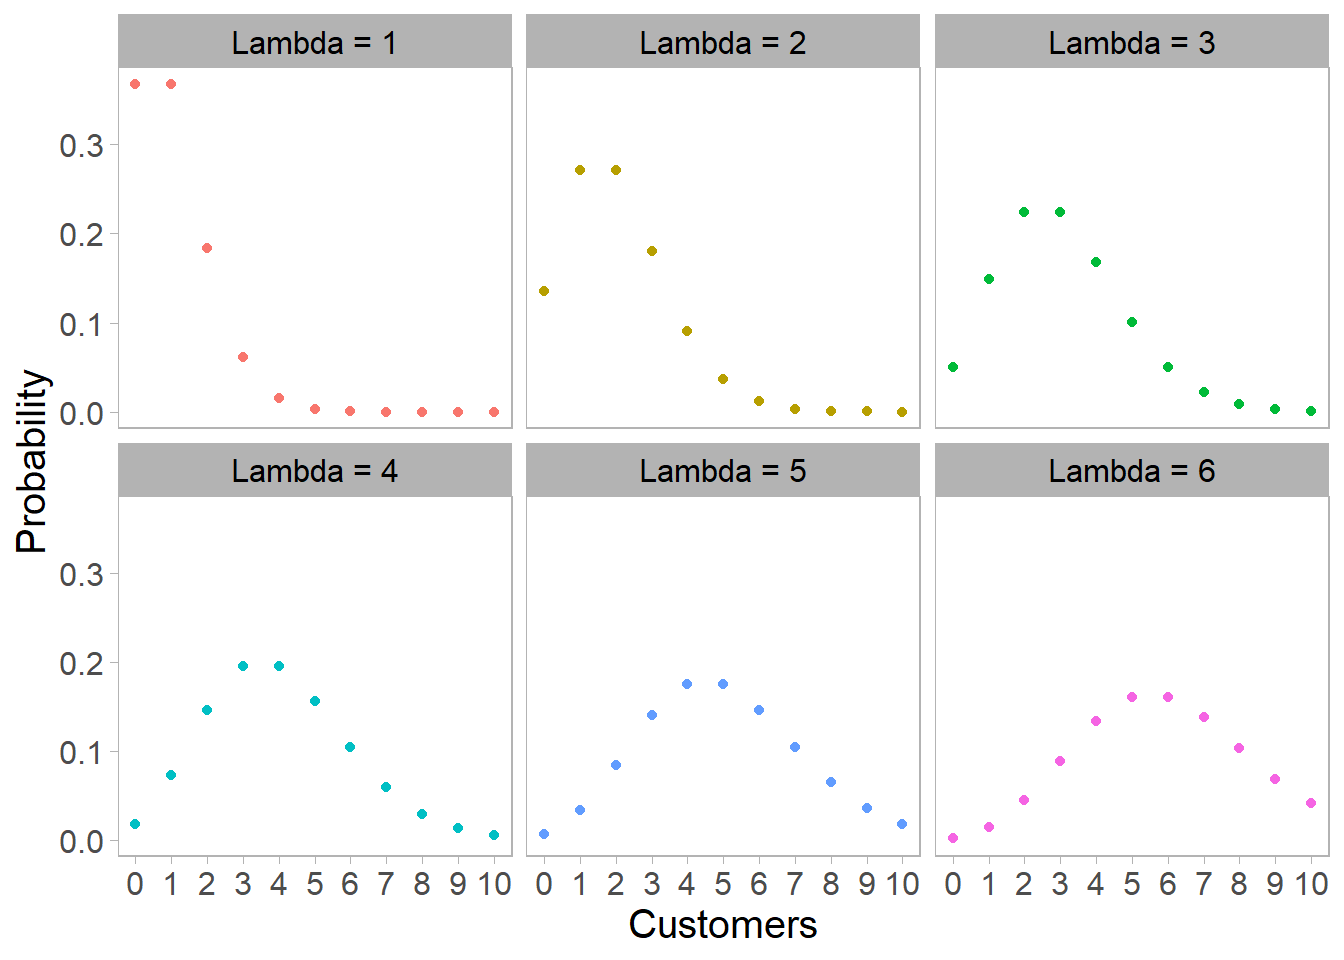
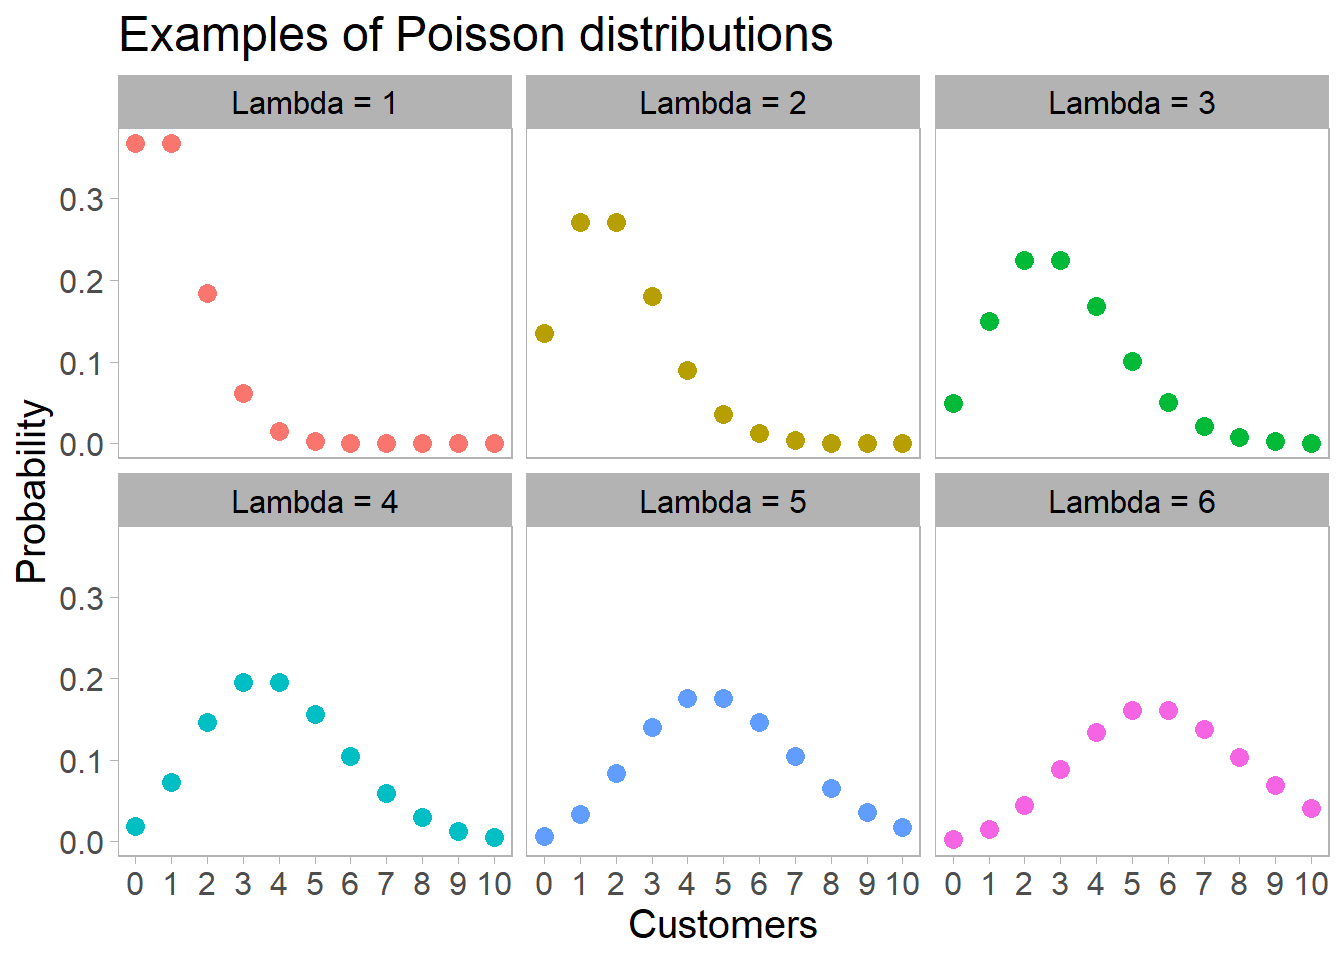
Final version

diff --git a/public/2020/08/25/first-post/index.html b/public/2020/08/25/first-post/index.html
@@ -6,8 +6,8 @@
 <meta name="generator" content="Hugo 0.74.3" />
 
 
-<title>Statistical models - A Hugo website</title>
-<meta property="og:title" content="Statistical models - A Hugo website">
+<title>Parametric statistical models - A Hugo website</title>
+<meta property="og:title" content="Parametric statistical models - A Hugo website">
 
 
   <link href='/knowledge-1052014_1920.jpg' rel='icon' type='image/x-icon'/>
@@ -19,11 +19,6 @@
 
 
 
-
-
-
-
-<link href='//cdnjs.cloudflare.com/ajax/libs/highlight.js/9.12.0/styles/github.min.css' rel='stylesheet' type='text/css' />
 
 
 
@@ -65,7 +60,7 @@
     <span class="article-duration">3 min read</span>
     
 
-    <h1 class="article-title">Statistical models</h1>
+    <h1 class="article-title">Parametric statistical models</h1>
 
     
     <span class="article-date">2020-08-25</span>
@@ -77,9 +72,8 @@
 
 <div id="statistical-models-what-are-they" class="section level2">
 <h2><em>Statistical models, what are they?</em></h2>
-<p><em>All models are wrong</em></p>
-<p>Statistical models are a way of approximating the results of a statistical experiment.<br />
-Let’s say that we want to analyse the hourly number of customers coming to a gas station from 9-5 in order to assess how many people are needed in the shop. To that extent we measure the number of customers that we observed in a day and the results looked like this:</p>
+<p>Statistical models are a way of approximating reality.<br />
+Let’s say that we want to analyse the hourly number of customers coming to a shop from 9-5 in order to assess how many people are needed to work. To that extent, we measure the number of customers that we observed in a day and the results looked like this:</p>
 <table>
 <thead>
 <tr class="header">
@@ -128,7 +122,7 @@ Let’s say that we want to analyse the hourly number of customers coming to a g
 3. <em>Which time intervals have the lowest traffic on average?</em></p>
 <p>Since we want to use probabilities, the first thing we need is a probability distribution that could be used in order to describe what we observe in reality. There are numerous probability distributions that we can choose from and none of them is the one that fully describes reality. But we still have to try to find one that seems reasonable given our data.</p>
 <p>What do we mean by reasonable?
-Well in our particular example of the gas station above, it would be good if our distribution fulfilled the following properties:<br />
+Well in our particular example of the shop above, it would be good if our distribution fulfilled the following properties:<br />
 - No negative values (Customers in an hour cannot be negative)<br />
 - Only integer values allowed (Customers in an hour have to be an integer number)<br />
 - Arrivals are independent of each other</p>
@@ -137,13 +131,18 @@ Well in our particular example of the gas station above, it would be good if our
 - Do certain days have more customers than others and therefore the hourly probability distribution for those days should be different?</p>
 <p>These are very reasonable questions to ask about our model of reality. And depending on the answer (which again depends on the data we observe) we have to adapt our probability distribution accordingly. This could be done for example by adding extra parameters or modeling some days separately.</p>
 <p>Coming back to our example, a reasonable distribution for customers in an hour is a <a href="https://en.wikipedia.org/wiki/Poisson_distribution">Poisson distribution</a>. How does a Poisson distribution look like?</p>
-<p><img src="/post/2020-08-25-first-post_files/figure-html/unnamed-chunk-2-1.png" width="672" /></p>
-<p><span class="math display">\[\displaystyle \{ \mathbb {P_\theta }\} _{\theta \in \Theta }\]</span></p>
-<pre class="r"><code>x = seq(1, 10 , 0.1)
-plot(x, sqrt(x))</code></pre>
-<p><img src="/post/2020-08-25-first-post_files/figure-html/unnamed-chunk-3-1.png" width="672" /></p>
-<p><strong>Does this work?</strong></p>
-<p><span class="math display">\[ y_i = mx_i + c\]</span></p>
+<p><img src="/post/2020-08-25-first-post_files/figure-html/unnamed-chunk-2-1.png" width="672" />
+As can be seen from the chart the Poisson distribution changes depending on the value of lambda that we select. For example, it is far more likely that we are going to have 0 or 1 customer in an hour if lambda equals 1 than if lambda equals 6.<br />
+Therefore, we can say that if our assumptions are correct, the good approximation for modeling the reality of customer arrivals is a Poisson distribution with a certain specific parameter lambda.</p>
+<p>Which brings us to the more formal definition of a statistical model:</p>
+<p>A statistical model is thought of as a pair <span class="math inline">\({\left(S, \{ P_\theta \} _{\theta \in \Theta }\right)}\)</span><br />
+The components of the pair are:</p>
+<ol style="list-style-type: decimal">
+<li><p><span class="math inline">\(S\)</span> is the sample space, as in a set that contains all possible observations we could make. In the shop example <span class="math inline">\(S\)</span> would be the set of all positive integers <a href="https://en.wikipedia.org/wiki/Natural_number#Notation"><span class="math inline">\(N^0\)</span></a></p></li>
+<li><p><span class="math inline">\({P}\)</span> is the family of all probability distributions on <span class="math inline">\(S\)</span>. In our example, these are all the Poisson distributions on the sample data.</p></li>
+<li><p><span class="math inline">\(\theta\)</span> is the parameter of our distribution. In our case this parameter is <strong>lambda</strong></p></li>
+<li><p><span class="math inline">\({\Theta}\)</span> is the parameter space. Basically where does our parameter(s) live? In the shop example, since we have a Poisson distribution lambda can only be positive and therefore <span class="math inline">\(\Theta = (0, +\infty)\)</span></p></li>
+</ol>
 </div>
 
     </div>
@@ -167,18 +166,6 @@ plot(x, sqrt(x))</code></pre>
 
     </div>
     
-
-
-
-<script src="//cdnjs.cloudflare.com/ajax/libs/highlight.js/9.12.0/highlight.min.js"></script>
-
-
-
-<script src="//cdnjs.cloudflare.com/ajax/libs/highlight.js/9.12.0/languages/r.min.js"></script>
-<script src="//cdnjs.cloudflare.com/ajax/libs/highlight.js/9.12.0/languages/yaml.min.js"></script>
-<script>hljs.configure({languages: []}); hljs.initHighlightingOnLoad();</script>
-
-
 
     
 <script src="/js/math-code.js"></script>

diff --git a/content/post/2020-08-25-first-post.html b/content/post/2020-08-25-first-post.html
@@ -1,5 +1,5 @@
 ---
-title: Statistical models
+title: Parametric statistical models
 author: George
 date: '2020-08-25'
 slug: first-post
@@ -16,9 +16,8 @@ output:
 
 <div id="statistical-models-what-are-they" class="section level2">
 <h2><em>Statistical models, what are they?</em></h2>
-<p><em>All models are wrong</em></p>
-<p>Statistical models are a way of approximating the results of a statistical experiment.<br />
-Let’s say that we want to analyse the hourly number of customers coming to a gas station from 9-5 in order to assess how many people are needed in the shop. To that extent we measure the number of customers that we observed in a day and the results looked like this:</p>
+<p>Statistical models are a way of approximating reality.<br />
+Let’s say that we want to analyse the hourly number of customers coming to a shop from 9-5 in order to assess how many people are needed to work. To that extent, we measure the number of customers that we observed in a day and the results looked like this:</p>
 <table>
 <thead>
 <tr class="header">
@@ -67,7 +66,7 @@ Let’s say that we want to analyse the hourly number of customers coming to a g
 3. <em>Which time intervals have the lowest traffic on average?</em></p>
 <p>Since we want to use probabilities, the first thing we need is a probability distribution that could be used in order to describe what we observe in reality. There are numerous probability distributions that we can choose from and none of them is the one that fully describes reality. But we still have to try to find one that seems reasonable given our data.</p>
 <p>What do we mean by reasonable?
-Well in our particular example of the gas station above, it would be good if our distribution fulfilled the following properties:<br />
+Well in our particular example of the shop above, it would be good if our distribution fulfilled the following properties:<br />
 - No negative values (Customers in an hour cannot be negative)<br />
 - Only integer values allowed (Customers in an hour have to be an integer number)<br />
 - Arrivals are independent of each other</p>
@@ -76,11 +75,16 @@ Well in our particular example of the gas station above, it would be good if our
 - Do certain days have more customers than others and therefore the hourly probability distribution for those days should be different?</p>
 <p>These are very reasonable questions to ask about our model of reality. And depending on the answer (which again depends on the data we observe) we have to adapt our probability distribution accordingly. This could be done for example by adding extra parameters or modeling some days separately.</p>
 <p>Coming back to our example, a reasonable distribution for customers in an hour is a <a href="https://en.wikipedia.org/wiki/Poisson_distribution">Poisson distribution</a>. How does a Poisson distribution look like?</p>
-<p><img src="/post/2020-08-25-first-post_files/figure-html/unnamed-chunk-2-1.png" width="672" /></p>
-<p><span class="math display">\[\displaystyle \{ \mathbb {P_\theta }\} _{\theta \in \Theta }\]</span></p>
-<pre class="r"><code>x = seq(1, 10 , 0.1)
-plot(x, sqrt(x))</code></pre>
-<p><img src="/post/2020-08-25-first-post_files/figure-html/unnamed-chunk-3-1.png" width="672" /></p>
-<p><strong>Does this work?</strong></p>
-<p><span class="math display">\[ y_i = mx_i + c\]</span></p>
+<p><img src="/post/2020-08-25-first-post_files/figure-html/unnamed-chunk-2-1.png" width="672" />
+As can be seen from the chart the Poisson distribution changes depending on the value of lambda that we select. For example, it is far more likely that we are going to have 0 or 1 customer in an hour if lambda equals 1 than if lambda equals 6.<br />
+Therefore, we can say that if our assumptions are correct, the good approximation for modeling the reality of customer arrivals is a Poisson distribution with a certain specific parameter lambda.</p>
+<p>Which brings us to the more formal definition of a statistical model:</p>
+<p>A statistical model is thought of as a pair <span class="math inline">\({\left(S, \{ P_\theta \} _{\theta \in \Theta }\right)}\)</span><br />
+The components of the pair are:</p>
+<ol style="list-style-type: decimal">
+<li><p><span class="math inline">\(S\)</span> is the sample space, as in a set that contains all possible observations we could make. In the shop example <span class="math inline">\(S\)</span> would be the set of all positive integers <a href="https://en.wikipedia.org/wiki/Natural_number#Notation"><span class="math inline">\(N^0\)</span></a></p></li>
+<li><p><span class="math inline">\({P}\)</span> is the family of all probability distributions on <span class="math inline">\(S\)</span>. In our example, these are all the Poisson distributions on the sample data.</p></li>
+<li><p><span class="math inline">\(\theta\)</span> is the parameter of our distribution. In our case this parameter is <strong>lambda</strong></p></li>
+<li><p><span class="math inline">\({\Theta}\)</span> is the parameter space. Basically where does our parameter(s) live? In the shop example, since we have a Poisson distribution lambda can only be positive and therefore <span class="math inline">\(\Theta = (0, +\infty)\)</span></p></li>
+</ol>
 </div>

diff --git a/public/index.html b/public/index.html
@@ -68,7 +68,7 @@
     <h2 class="archive-title">2020</h2>
     
     <article class="archive-item">
-      <a href="/2020/08/25/first-post/" class="archive-item-link">Statistical models</a>
+      <a href="/2020/08/25/first-post/" class="archive-item-link">Parametric statistical models</a>
       <span class="archive-item-date">
         2020-08-25
       </span>

diff --git a/public/post/index.html b/public/post/index.html
@@ -65,7 +65,7 @@
     <h2 class="archive-title">2020</h2>
     
     <article class="archive-item">
-      <a href="/2020/08/25/first-post/" class="archive-item-link">Statistical models</a>
+      <a href="/2020/08/25/first-post/" class="archive-item-link">Parametric statistical models</a>
       <span class="archive-item-date">
         2020-08-25
       </span>

diff --git a/public/tags/plot/index.html b/public/tags/plot/index.html
@@ -65,7 +65,7 @@
     <h2 class="archive-title">2020</h2>
     
     <article class="archive-item">
-      <a href="/2020/08/25/first-post/" class="archive-item-link">Statistical models</a>
+      <a href="/2020/08/25/first-post/" class="archive-item-link">Parametric statistical models</a>
       <span class="archive-item-date">
         2020-08-25
       </span>
